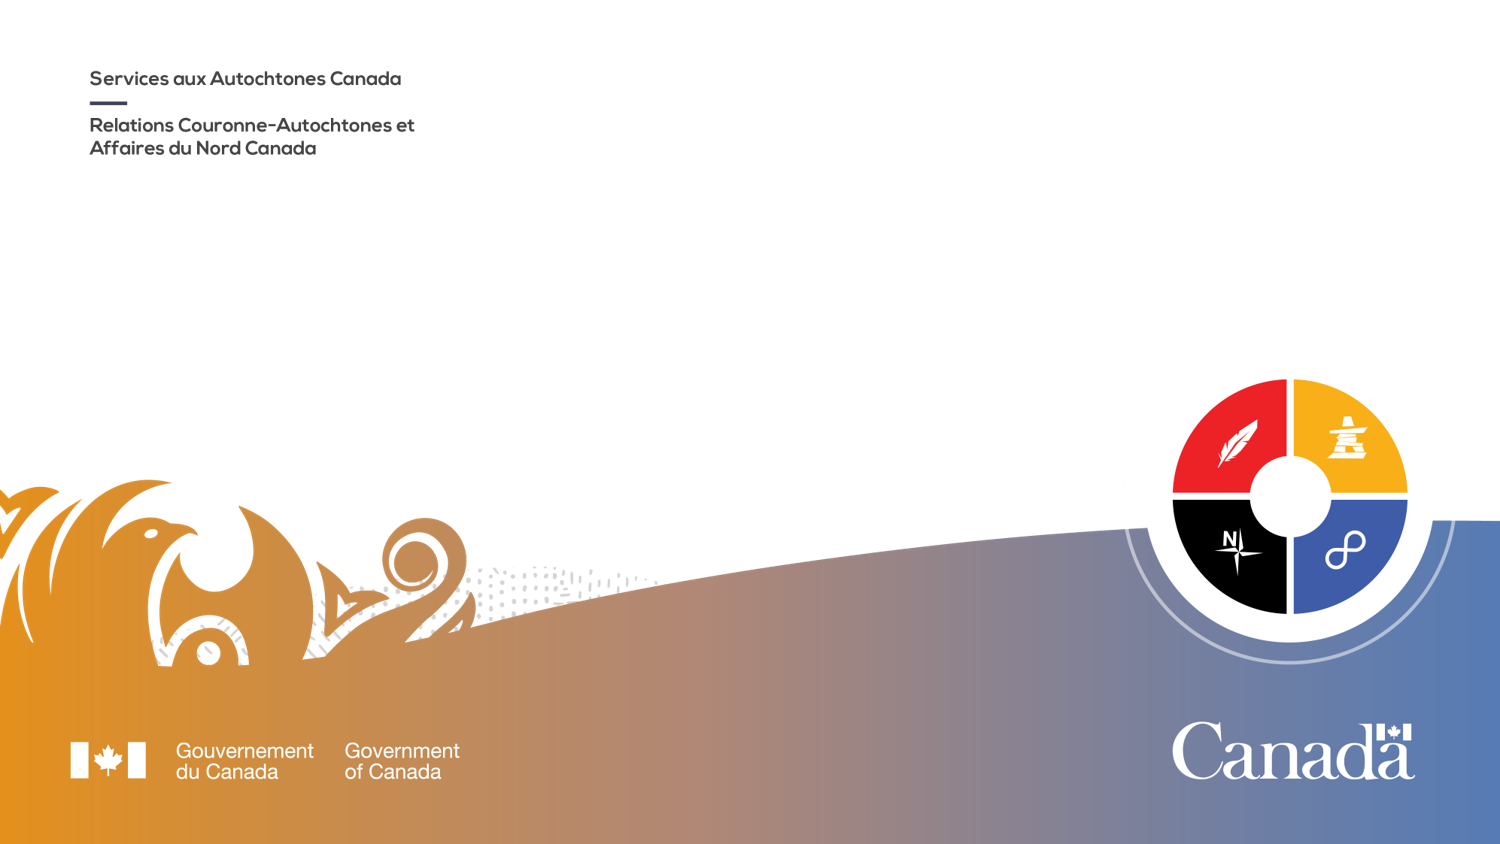
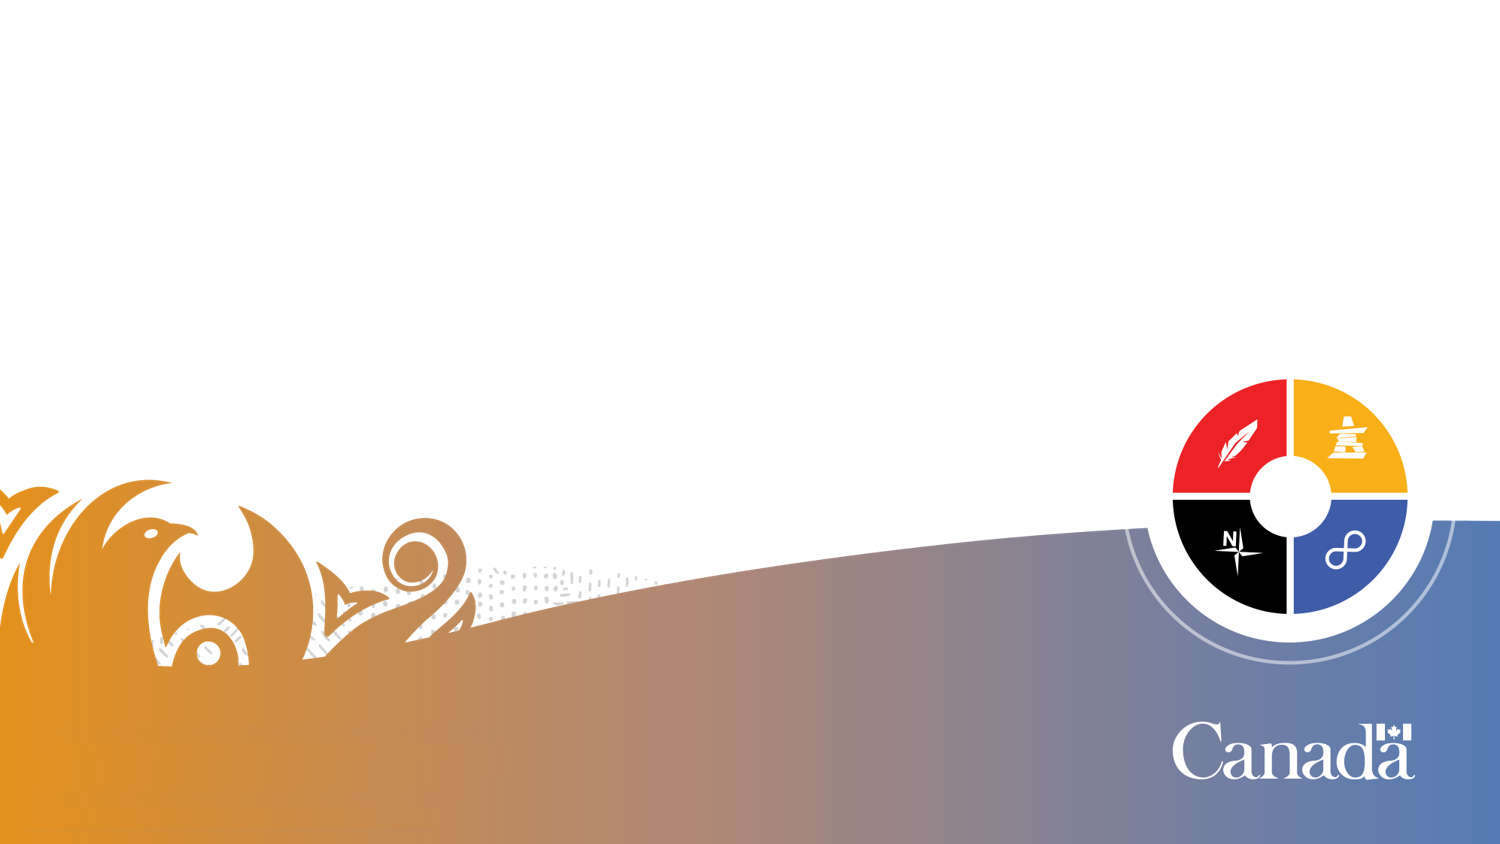
update login page bg photos

Changed region(s): [[0.0613, 0.0616, 0.276, 0.1848], [0.0307, 0.8626, 0.3067, 0.9242]]

diff --git a/salesforce-login-promo-panel.html b/salesforce-login-promo-panel.html
@@ -7,7 +7,7 @@
 
 	<style>
 		body {
-			background: url("img/Common_FR.png") no-repeat bottom left fixed;
+			background: url("img/loginPage2.png") no-repeat bottom left fixed;
 			-webkit-background-size: cover;
 			-moz-background-size: cover;
 			-o-background-size: cover;
